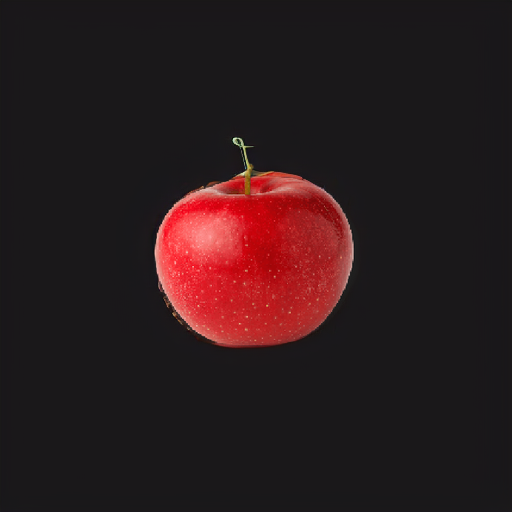
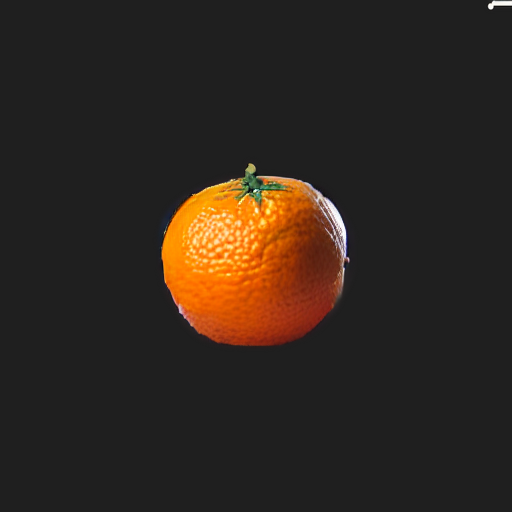
inpainting update

Changed region(s): [[0.2812, 0.2812, 0.7188, 0.6875], [0.9375, 0.0, 1.0, 0.0312], [0.4375, 0.25, 0.4688, 0.2812]]

diff --git a/inpainting.py b/inpainting.py
@@ -5,7 +5,7 @@ import base64
 import requests
 
 # A1111 URL
-url = "https://020782446eeda6cd1a.gradio.live"
+url = "https://db19289ab29abb4f96.gradio.live"
 
 # Read Image in RGB order
 img = cv2.imread('apple.png')
@@ -28,18 +28,18 @@ payload = {
     ],
     "mask": encoded_baseimage,
     "batch_size": 1,
-    "cfg_scale": 7,
-    "resize_mode": 0,
+    "cfg_scale": 23,
+    "resize_mode": 2,
+    "inpainting_mask_invert": 1,
     "inpainting_fill":1,
-    "inpainting_mask_invert": 0,
     "inpaint_full_res": 0,
+    "refiner_checkpoint": "v1-5-pruned-emaonly.safetensors [6ce0161689]",
     "prompt": 'an orange',
     "negative_prompt": "",
     "width": 512,
     "height": 512,
     "steps": 20,
     "sampler_index": "DPM++ 2M Karras",
-
 
 }
 
